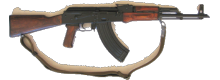
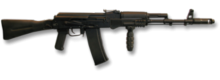
Rename four AK rifles and give them matching photos
TYPE 56 -> AK-74, AKM -> AK-101, AKMS -> AK-12, AKS-47 -> AK-103 (ids kept
so saves still load). Each now has its own Wikimedia Commons photo
(credited); the AK-12 no longer borrows the AKM picture.

diff --git a/dungeons_and_guns/data/weapons.py b/dungeons_and_guns/data/weapons.py
@@ -48,10 +48,10 @@ WEAPONS = [
     Weapon(id="m4a3",      name="M4A3",            cat=C.RIFLES, art="ar_m16", kind=K.GUN, dmg=(15, 20), acc=0.72, rng=315, cooldown=125, price=1200),
     Weapon(id="m4a4",      name="M4A4",            cat=C.RIFLES, art="ar_m16", kind=K.GUN, dmg=(15, 21), acc=0.73, rng=320, cooldown=120, price=1250),
     Weapon(id="ak47",      name="AK-47",           cat=C.RIFLES, art="ar_ak",  kind=K.GUN, dmg=(16, 22), acc=0.62, rng=320, cooldown=190, price=950, ammo="ammo_ak"),
-    Weapon(id="aks47",     name="AKS-47",          cat=C.RIFLES, art="ar_ak",  kind=K.GUN, dmg=(16, 22), acc=0.61, rng=315, cooldown=185, price=980, ammo="ammo_ak"),
-    Weapon(id="akm",       name="AKM",             cat=C.RIFLES, art="ar_ak",  kind=K.GUN, dmg=(16, 23), acc=0.64, rng=325, cooldown=180, price=1050, ammo="ammo_ak"),
-    Weapon(id="akms",      name="AKMS",            cat=C.RIFLES, art="ar_ak",  kind=K.GUN, dmg=(16, 23), acc=0.63, rng=320, cooldown=175, price=1080, ammo="ammo_ak"),
-    Weapon(id="type56",    name="TYPE 56",         cat=C.RIFLES, art="ar_ak",  kind=K.GUN, dmg=(15, 22), acc=0.60, rng=310, cooldown=185, price=900, ammo="ammo_ak"),
+    Weapon(id="aks47",     name="AK-103",          cat=C.RIFLES, art="ar_ak",  kind=K.GUN, dmg=(16, 22), acc=0.61, rng=315, cooldown=185, price=980, ammo="ammo_ak"),
+    Weapon(id="akm",       name="AK-101",          cat=C.RIFLES, art="ar_ak",  kind=K.GUN, dmg=(16, 23), acc=0.64, rng=325, cooldown=180, price=1050, ammo="ammo_ak"),
+    Weapon(id="akms",      name="AK-12",           cat=C.RIFLES, art="ar_ak",  kind=K.GUN, dmg=(16, 23), acc=0.63, rng=320, cooldown=175, price=1080, ammo="ammo_ak"),
+    Weapon(id="type56",    name="AK-74",           cat=C.RIFLES, art="ar_ak",  kind=K.GUN, dmg=(15, 22), acc=0.60, rng=310, cooldown=185, price=900, ammo="ammo_ak"),
     Weapon(id="tavor",     name="תבור X95",        cat=C.RIFLES, art="ar_m16", kind=K.GUN, dmg=(16, 22), acc=0.74, rng=330, cooldown=140, price=1400),
 
     # ----- רובי צלפים -----

diff --git a/dungeons_and_guns/data/items.py b/dungeons_and_guns/data/items.py
@@ -13,7 +13,7 @@ AMMO_TYPES = [
              desc="לאקדחים התופיים (רוגר 101, סמית' אנד ווסון)"),
     AmmoType(id="ammo_smg",      name="כדורי תת מקלע", pack=60, price=100, desc="לעוזי, מק 10, MP5 ו-MP7"),
     AmmoType(id="ammo_rifle",    name="כדורי רובה",    pack=30, price=110, desc="לרובי סער מסוג M16, M4 ותבור"),
-    AmmoType(id="ammo_ak",       name="כדורי AK",      pack=30, price=105, desc="לכל משפחת ה-AK ו-TYPE 56"),
+    AmmoType(id="ammo_ak",       name="כדורי AK",      pack=30, price=105, desc="לכל משפחת ה-AK"),
     AmmoType(id="ammo_shell",    name="כדורי שוטגן",   pack=12, price=90,  desc="לרובי צייד"),
     AmmoType(id="ammo_sniper",   name="כדורי צלפים",   pack=10, price=150, desc="לרובי צלפים"),
     AmmoType(id="ammo_mg",       name="חגורת מקלע",    pack=60, price=200, desc="למקלעים כבדים"),

diff --git a/dungeons_and_guns/ui/icons/__init__.py b/dungeons_and_guns/ui/icons/__init__.py
@@ -57,7 +57,7 @@ PHOTO_ALIAS = {
     "glock19": "glock", "sig": "p226", "browning": "m2",
     "barrett82": "barrett", "barrett_mg": "barrett",
     # דגמים שנראים כמעט זהים לדגם שיש לו תצלום
-    "glock47": "glock17", "m16a3": "m16a2", "akms": "akm",
+    "glock47": "glock17", "m16a3": "m16a2",
     "m4a2": "m4a1", "m4a3": "m4a1", "m4a4": "m4a1",
 }
 

diff --git a/images/CREDITS.md b/images/CREDITS.md
@@ -7,14 +7,18 @@
   - צלם/יוצר: Ickybicky at en.wikipedia
   - רישיון: Public domain  None
   - מקור: https://commons.wikimedia.org/wiki/File:AK-47_assault_rifle.jpg
-- **akm** - File:AKM RIFLE.png
-  - צלם/יוצר: Ausiecapta
-  - רישיון: CC BY-SA 3.0  https://creativecommons.org/licenses/by-sa/3.0
-  - מקור: https://commons.wikimedia.org/wiki/File:AKM_RIFLE.png
-- **aks47** - File:AK-47 type II noBG.png
-  - צלם/יוצר: User:Nemo5576
+- **akm** (AK-101) - File:AK-101 assault rifle 2012 noBG.png
+  - צלם/יוצר: Mike1979 Russia
   - רישיון: CC BY-SA 4.0  https://creativecommons.org/licenses/by-sa/4.0
-  - מקור: https://commons.wikimedia.org/wiki/File:AK-47_type_II_noBG.png
+  - מקור: https://commons.wikimedia.org/wiki/File:AK-101_assault_rifle_2012_noBG.png
+- **akms** (AK-12) - File:AK-12.png
+  - צלם/יוצר: Nickel nitride (צילום), Sumek101 (עריכה)
+  - רישיון: CC0  http://creativecommons.org/publicdomain/zero/1.0/deed.en
+  - מקור: https://commons.wikimedia.org/wiki/File:AK-12.png
+- **aks47** (AK-103) - File:AK-103 Synthetic Furniture.png
+  - צלם/יוצר: Isaac Lees
+  - רישיון: CC BY-SA 3.0  https://creativecommons.org/licenses/by-sa/3.0
+  - מקור: https://commons.wikimedia.org/wiki/File:AK-103_Synthetic_Furniture.png
 - **awp** - File:Accuracy International Arctic Warfare - Psg 90 G24.png
   - צלם/יוצר: Mr Bullitt
   - רישיון: CC BY-SA 4.0  https://creativecommons.org/licenses/by-sa/4.0
@@ -143,10 +147,10 @@
   - צלם/יוצר: MathKnight / new "digital editing" by Auge=mit
   - רישיון: CC BY-SA 4.0  https://creativecommons.org/licenses/by-sa/4.0
   - מקור: https://commons.wikimedia.org/wiki/File:IWI-Tavor-TAR-21w1_new_noBG.png
-- **type56** - File:Chinese Type 56-1 Assault Rifle other side.jpg
-  - צלם/יוצר: RRT877
+- **type56** (AK-74) - File:Servicerifle-ak-74.png
+  - צלם/יוצר: Kalashnikov Concern
   - רישיון: CC BY-SA 4.0  https://creativecommons.org/licenses/by-sa/4.0
-  - מקור: https://commons.wikimedia.org/wiki/File:Chinese_Type_56-1_Assault_Rifle_other_side.jpg
+  - מקור: https://commons.wikimedia.org/wiki/File:Servicerifle-ak-74.png
 - **uzi** - File:Uzi-nobg.png
   - צלם/יוצר: John Torch II
   - רישיון: CC0  http://creativecommons.org/publicdomain/zero/1.0/deed.en
